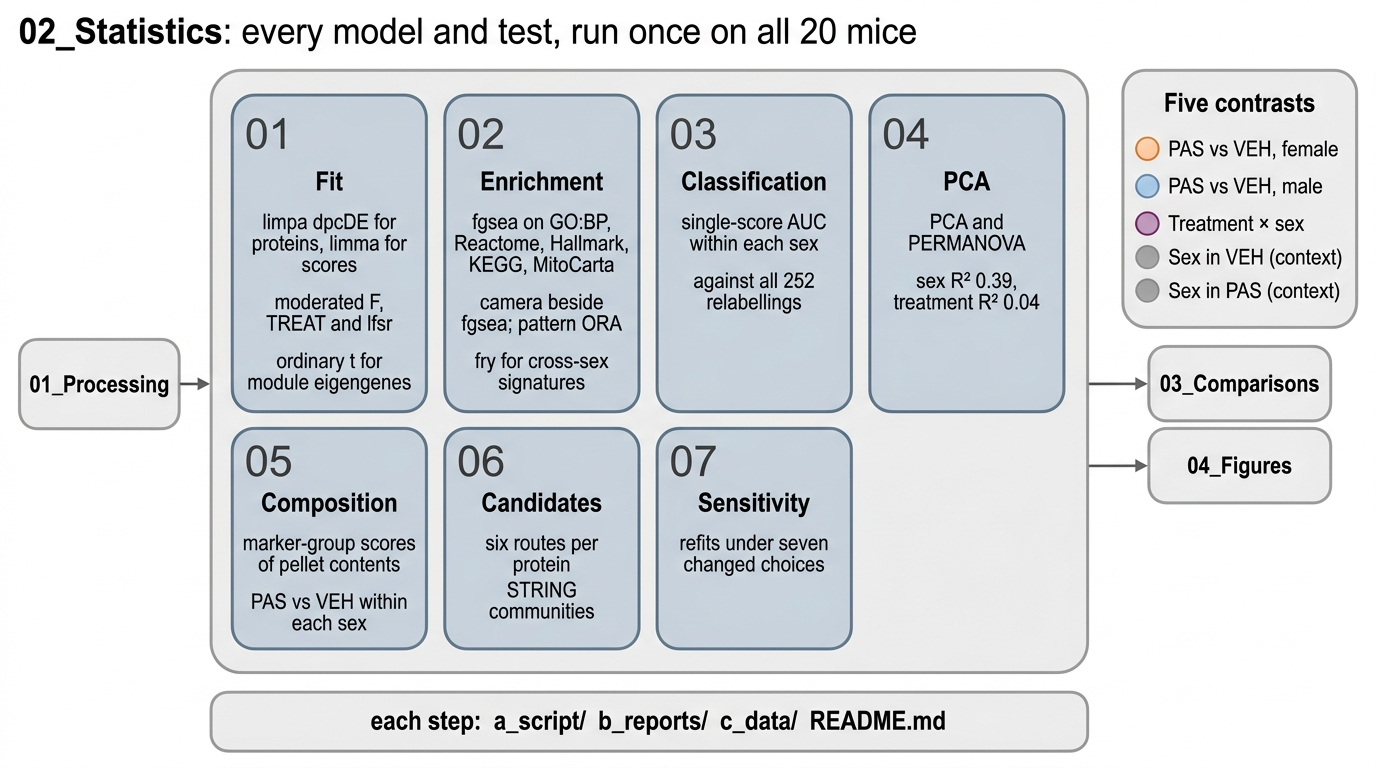
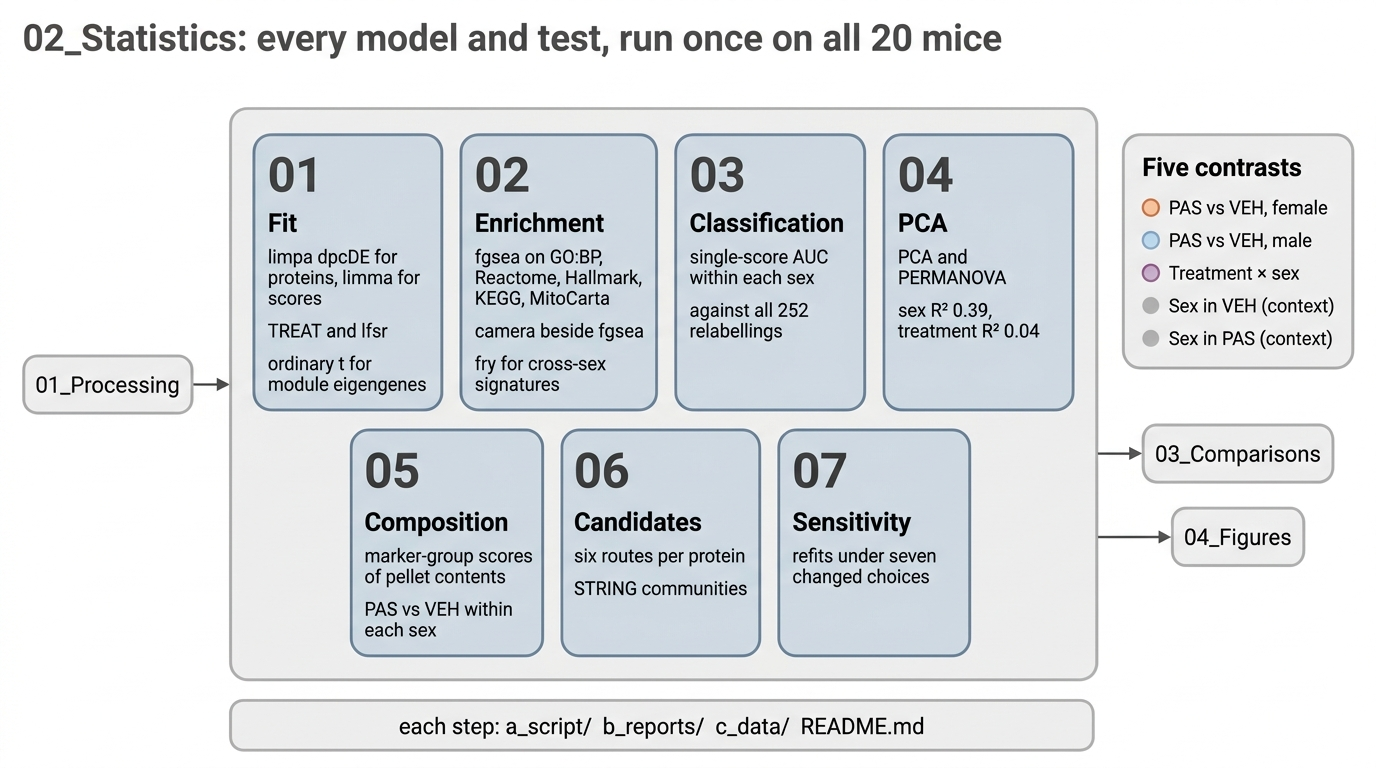
redraw the pipeline and statistics schematics so they stop advertising retired steps

diff --git a/00_Setup/Schematics/pipeline/EVIDENCE.md b/00_Setup/Schematics/pipeline/EVIDENCE.md
@@ -1,18 +1,19 @@
 # Evidence: pipeline
 
-Repo state read 2026-10-16, branch refactor/hrvlr-layout, after the coordinator's full rerun of run_all.R.
+Repo state read 2026-11-06 at commit c975539 (04_Figures cards updated; every other element rechecked against the files below).
 
 | Drawn element | Source |
 |---|---|
-| Run order 01_Processing -> 02_Statistics -> 03_Comparisons -> 04_Figures; chip "Rscript run_all.R" | `run_all.R`, vectors `processing`, `statistics`, `comparisons`, `figures` |
+| Run order 01_Processing -> 02_Statistics -> 03_Comparisons -> 04_Figures; chip "Rscript run_all.R" | `run_all.R`, vectors `processing`, `statistics`, `comparisons`, `figures`, and its header comment |
 | 00_Setup inputs: report.parquet, report_stats.xlsx, metadata.csv, phenotypes.xlsx, MitoCarta 3.0 (`Mouse.MitoCarta3.0.xls`), CORUM 5.3 (`corum_complete.txt`), STRING v12 (`STRING_v12/`) | `ls 00_Setup/Input`; `00_Setup/Input/README.md` table. `VEH_PAS_HLI_Master Data.xlsx` is read by nothing (README), so not drawn |
 | Shared_functions | `00_Setup/Shared_functions/` (helpers.R, figures.R, comparisons.R) |
 | Six processing steps | `run_all.R` `processing`; folder names `01_Processing/0N_*` (04 Gene sets = `04_Gene_Sets`) |
-| 1,962 proteins, 595 in MitoCarta | `01_Processing/02_Quantification/c_data/proteins.rds`: `dim(proteins)` = 1962 x 20; `dim(E_norm$mito)` = 595 x 20 |
+| 1,962 proteins, 595 in MitoCarta | `01_Processing/02_Quantification/c_data/proteins.rds`: `dim(proteins)` = 1962 x 20, `dim(E_norm$full)` = 1962 x 20, `dim(E_norm$mito)` = 595 x 20 (read 2026-10-29) |
 | Seven statistics steps | `run_all.R` `statistics`; folders `02_Statistics/01_Fit` ... `07_Sensitivity` |
 | "run once on all 20 mice" | `02_Statistics/README.md` first line; 20 columns in `proteins.rds` |
-| Three comparisons and contrasts | `run_all.R` `comparisons`; `01_Processing/03_Design/c_data/03_design.xlsx` sheets `contrasts` (PAS_vs_VEH_female = PAS_F − VEH_F; PAS_vs_VEH_male = PAS_M − VEH_M; treatment_by_sex = PAS_F − PAS_M − VEH_F + VEH_M) and `comparisons` |
+| Three comparisons and contrasts | `run_all.R` `comparisons` (folders `03_Comparisons/Female`, `Male`, `Sex_Difference`); `01_Processing/03_Design/c_data/03_design.xlsx` sheets `contrasts` (PAS_vs_VEH_female = PAS_F − VEH_F; PAS_vs_VEH_male = PAS_M − VEH_M; treatment_by_sex = PAS_F − PAS_M − VEH_F + VEH_M) and `comparisons` |
 | "four steps written once in code/" | `ls 03_Comparisons/code`: 01_proteins.R, 02_pathways.R, 03_phenotypes.R, 04_classification.R |
-| 04_Figures: F01_Global, F02_Proteins, F03_Pathways, F04_Phenotype_pathways, F05_Modules, F05_Complexes, S1–S8 | `run_all.R` `figures` (14 composites; S1_Processing to S8_Sensitivity) |
-| Arrows into 03_Comparisons and 04_Figures from 02_Statistics; subtitle "drawn from saved results only" | `README.md` "Data flows one way"; `04_Figures/README.md` ("Every script reads saved outputs only"). Figures also read some 01_Processing files (F02, F05_Modules, F05_Complexes, S1 read proteins.rds, precursors_filtered.rds, design.rds, gene_sets.rds or modules.rds, by grep of `04_Figures/*/a_script`), so the subtitle does not say "statistics only" |
+| 04_Figures: F01_Global, F02_Proteins, F03_Pathways, F04_Phenotype_pathways, F05_Complexes, S1–S6 | `ls 04_Figures` (five figure folders); `run_all.R` `figures` (11 scripts: F01–F05 and S1–S6); `04_Figures/README.md` table, column Supplements |
+| Arrows into 03_Comparisons and 04_Figures from 02_Statistics; subtitle "drawn from saved results only" | `README.md` "Data flows one way"; `04_Figures/README.md` ("Every script reads saved outputs only and fits no model"). Figures also read some 01_Processing files (F02 panels c and d, S1a–S1e, S2c, S3a–S3c, by grep of `04_Figures/*/a_script`), so the subtitle does not say "statistics only" |
+| Subtitle "supplements filed under each figure" | `04_Figures/README.md` ("A figure's supplements sit in the same folder", `a_script/supp/`); `run_all.R` paths `F0N_*/a_script/supp/S#.R`. S1–S2 under F01, S3–S4 under F02, S5 under F03, S6 under F04, none under F05 |
 | Footer: a_script/, b_reports/, c_data/, README.md | `README.md` section "Every step" |

diff --git a/00_Setup/Schematics/pipeline/SPEC.md b/00_Setup/Schematics/pipeline/SPEC.md
@@ -14,6 +14,6 @@ Column 3 panel, header "02_Statistics", with the small subtitle "run once on all
 
 Column 4 is split into two panels stacked one above the other, each reached by its own arrow from the column 3 panel (two arrows in total leave column 3).
 - Upper panel, header "03_Comparisons", small subtitle "four steps written once in code/". Three cards side by side or stacked: an orange card with bold "Female" and below it "PAS_F − VEH_F"; a blue card with bold "Male" and below it "PAS_M − VEH_M"; a purple card with bold "Sex_Difference" and below it "(PAS_F − VEH_F) − (PAS_M − VEH_M)". Group names are written with plain underscores, never subscripts.
-- Lower panel, header "04_Figures", small subtitle "drawn from saved results only". Seven small neutral cards in two rows: "F01_Global", "F02_Proteins", "F03_Pathways", "F04_Phenotype_pathways", "F05_Modules", "F05_Complexes", "S1–S8".
+- Lower panel, header "04_Figures", small subtitle "drawn from saved results only; supplements filed under each figure". Six small neutral cards in two rows of three: "F01_Global", "F02_Proteins", "F03_Pathways", "F04_Phenotype_pathways", "F05_Complexes", "S1–S6".
 
 A full-width very light grey bar along the bottom with the text: "every step folder:  a_script/   b_reports/   c_data/   README.md".

diff --git a/00_Setup/Schematics/pipeline/DONOTDRAW.md b/00_Setup/Schematics/pipeline/DONOTDRAW.md
@@ -2,7 +2,7 @@
 
 - icons, pictograms, mice, people, organs, tubes, instruments, logos or decorations
 - charts, plots, data points or mock results
-- any number other than 1,962, 595, 20 and the step numbers given in the spec
+- any number other than 1,962, 595, 20 and the step and figure numbers given in the spec
 - arrows between the small cards inside any panel
 - an arrow from 03_Comparisons to 04_Figures or from 04_Figures to 03_Comparisons
 - a line or arrow joining the Female, Male and Sex_Difference cards to one another
